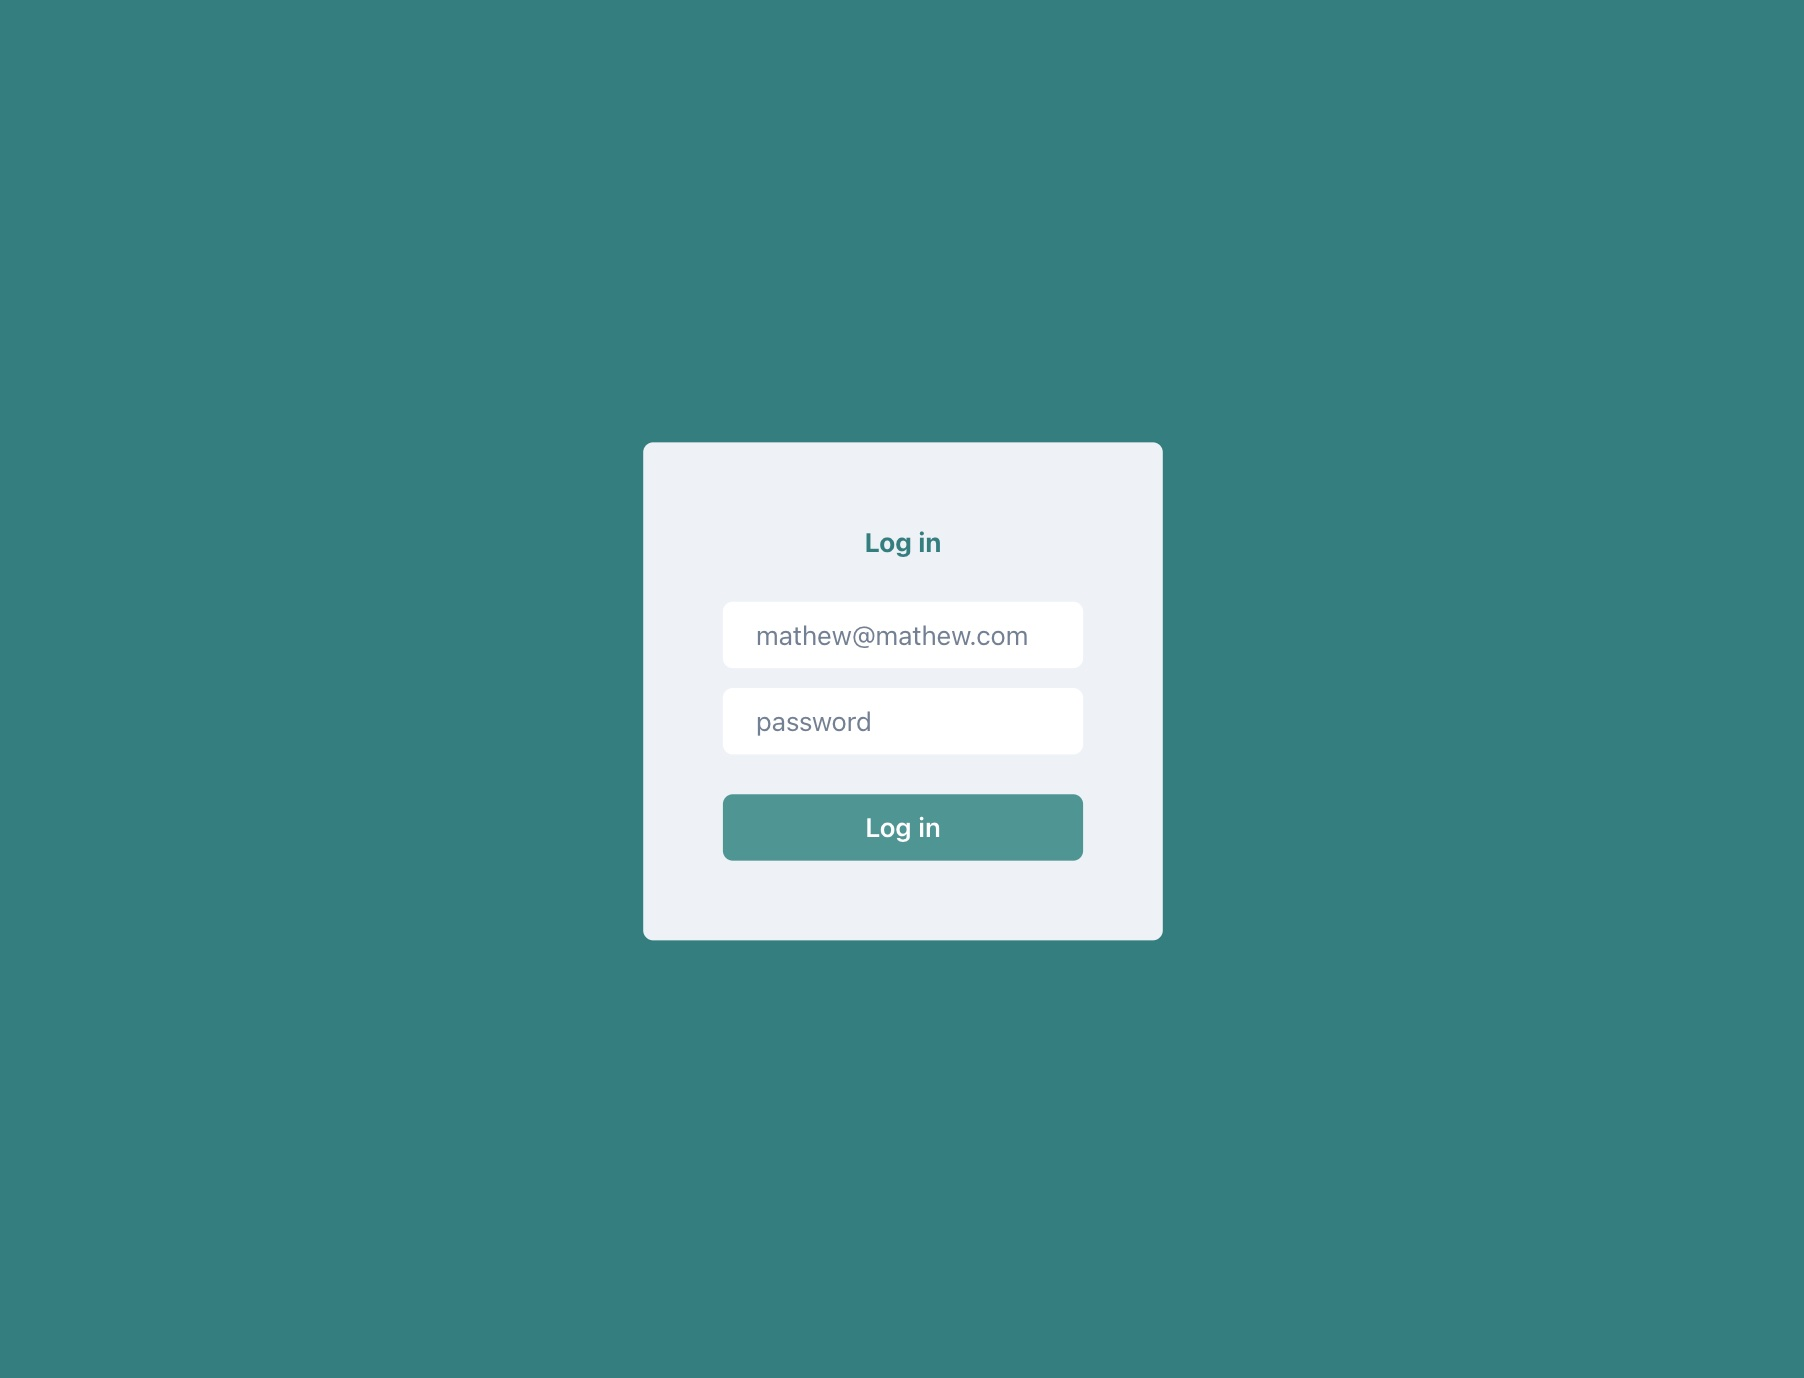
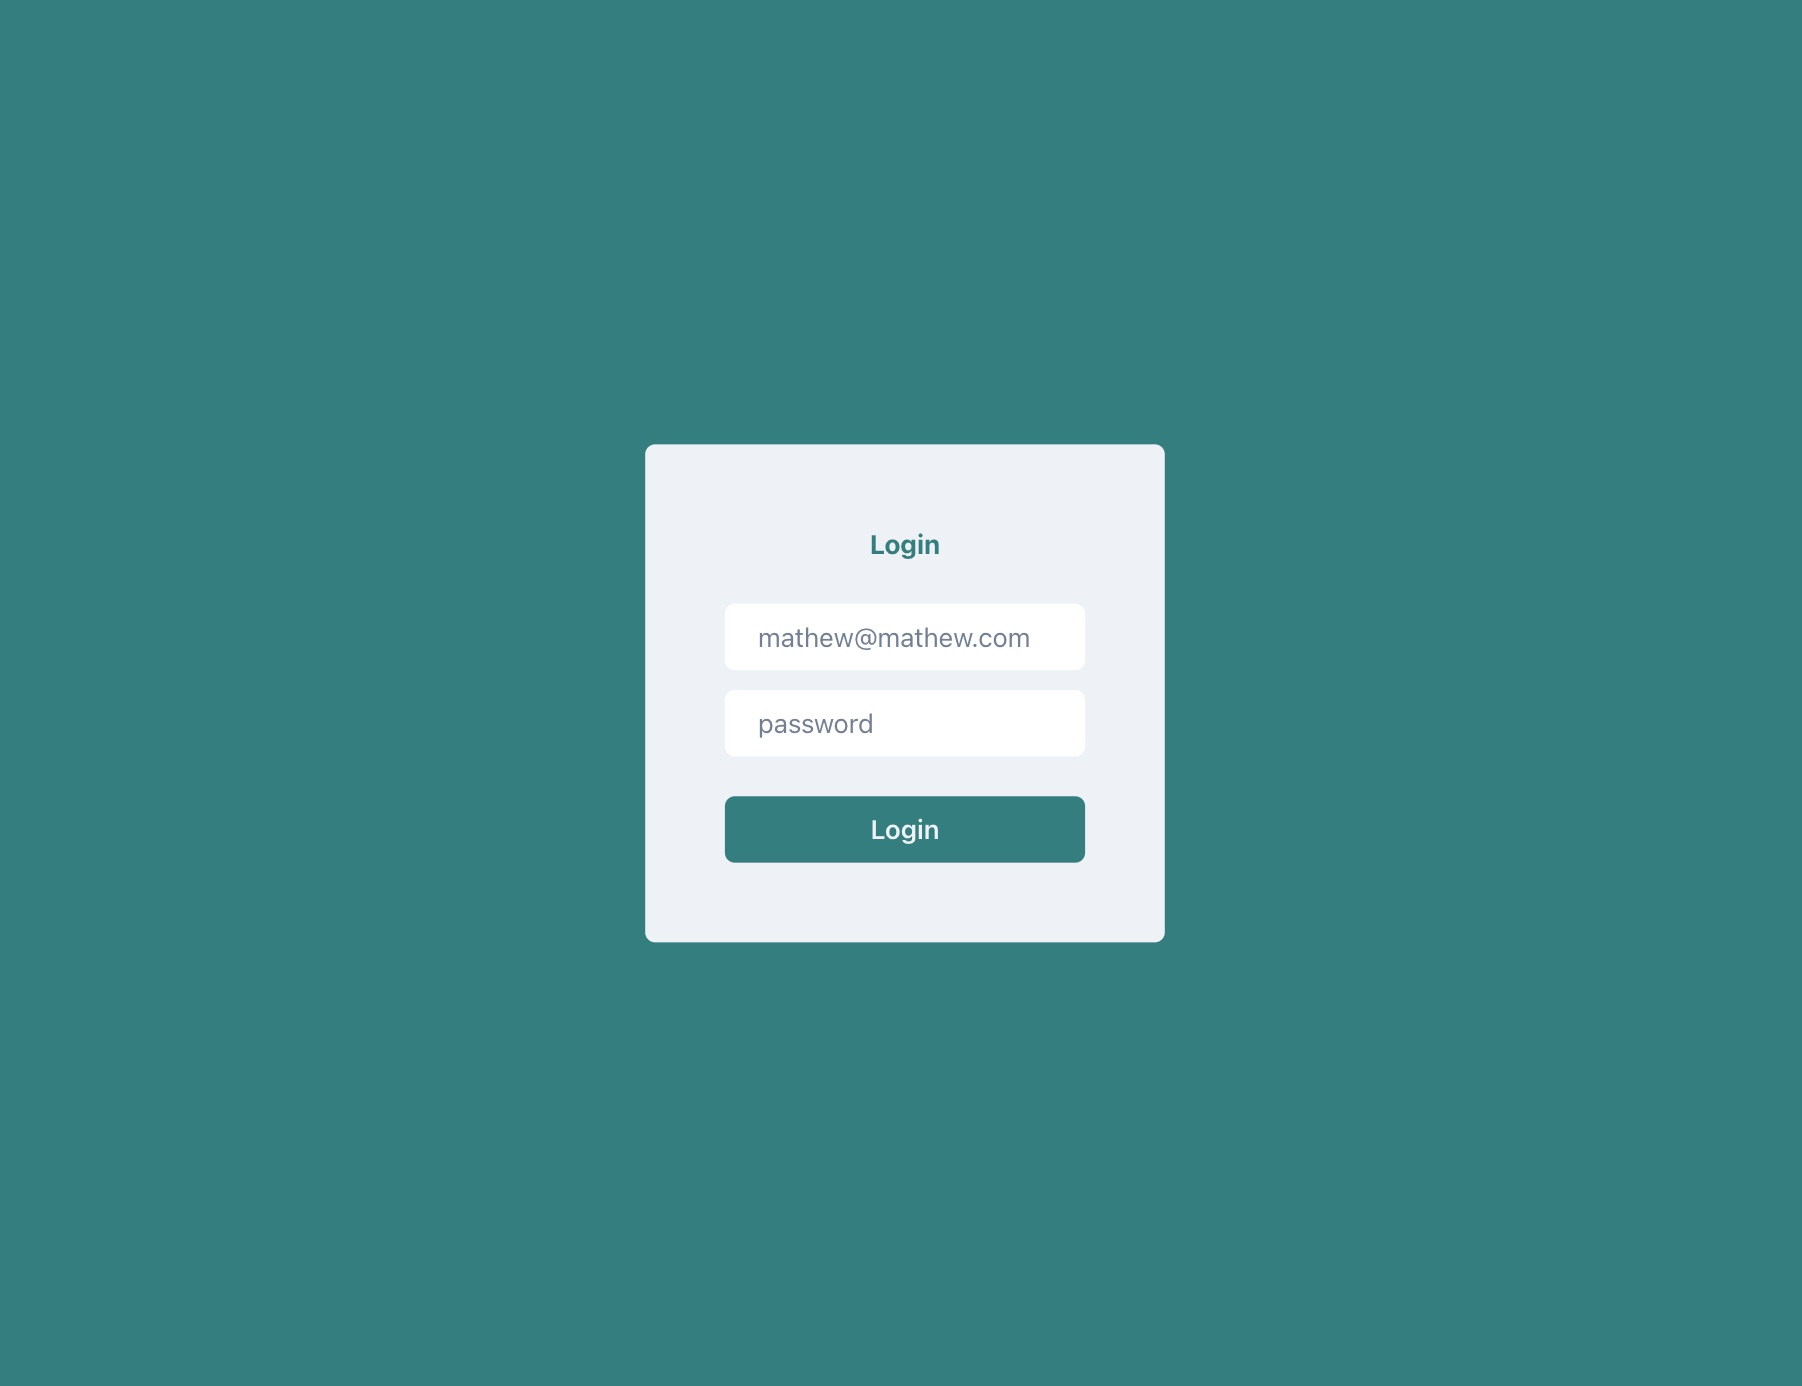
SimpleCart - cart details

diff --git a/src/components/forms/cart/SimpleCart/CartDetails.tsx b/src/components/forms/cart/SimpleCart/CartDetails.tsx
@@ -1,0 +1,74 @@
+import React from "react";
+import {
+  VStack,
+  Heading,
+  Text,
+  SimpleGrid,
+  GridItem,
+  FormControl,
+  FormLabel,
+  Input,
+  Select,
+  Checkbox,
+  Button,
+} from "@chakra-ui/react";
+
+type CartDetailsProps = {};
+
+const CartDetails: React.FC<CartDetailsProps> = () => {
+  return (
+    <VStack w="full" h="full" p={10} spacing={10} alignItems="flex-start">
+      <VStack spacing={3} alignItems="flex-start">
+        <Heading fontWeight={700}>Cart details</Heading>
+        <Text> If you already have an account, click here to log in</Text>
+      </VStack>
+      <SimpleGrid columns={2} columnGap={3} rowGap={6} w="full">
+        <GridItem colSpan={1}>
+          <FormControl>
+            <FormLabel>First Name</FormLabel>
+            <Input placeholder="John" />
+          </FormControl>
+        </GridItem>
+        <GridItem colSpan={1}>
+          <FormControl>
+            <FormLabel>Last Name</FormLabel>
+            <Input placeholder="Doe" />
+          </FormControl>
+        </GridItem>
+        <GridItem colSpan={2}>
+          <FormControl>
+            <FormLabel>Address</FormLabel>
+            <Input placeholder="99 Lost Way Blvd" />
+          </FormControl>
+        </GridItem>
+        <GridItem colSpan={1}>
+          <FormControl>
+            <FormLabel>City</FormLabel>
+            <Input placeholder="Doeville" />
+          </FormControl>
+        </GridItem>
+        <GridItem colSpan={1}>
+          <FormControl>
+            <FormLabel>Country</FormLabel>
+            <Select name="country">
+              <option value="ca"> Canada</option>
+              <option value="us"> United States of America</option>
+              <option value="mx">Mexico</option>
+              <option value="br">Brazil</option>
+              <option value="br">Kenya</option>
+              <option value="br">South Africa</option>
+              <option value="br">Finland</option>
+            </Select>
+          </FormControl>
+        </GridItem>
+        <GridItem colSpan={2}>
+          <Checkbox defaultChecked colorScheme="teal">Ship to billing address</Checkbox>
+        </GridItem>
+        <GridItem colSpan={2}>
+          <Button size="lg" w="full" colorScheme="teal">Place Order</Button>
+        </GridItem>
+      </SimpleGrid>
+    </VStack>
+  );
+};
+export default CartDetails;

diff --git a/src/components/forms/login/SimpleLogin.tsx b/src/components/forms/login/SimpleLogin.tsx
@@ -7,26 +7,26 @@ const SimpleLogin: React.FC<SimpleLoginProps> = () => {
   return (
     <Flex h="100vh" bg="teal" alignItems="center" justifyContent="center">
       <Flex direction="column" bg="gray.100" p={12} rounded={6}>
-        <Heading mb={6} textAlign="center" color="teal" fontWeight={700}>
-          Log in
+        <Heading mb={6} textAlign="center" color="brand.primary" fontWeight={700}>
+          Login
         </Heading>
         <Input
           placeholder="mathew@mathew.com"
-          variant="filled"
+          variant="outline"
           mb={3}
-          p="8px 20px"
+          p="4px 12px"
           type="email"
           rounded={6}
         />
         <Input
           placeholder="password"
-          variant="filled"
+          variant="outline"
           mb={6}
           p="8px 20px"
           rounded={6}
           type="password"
         />
-        <Button colorScheme="teal">Log in</Button>
+        <Button bg="teal" color="gray.100" colorScheme="teal">Login</Button>
       </Flex>
     </Flex>
   );

diff --git a/src/pages/_app.tsx b/src/pages/_app.tsx
@@ -1,4 +1,4 @@
-import { ChakraBaseProvider } from "@chakra-ui/react";
+import { ChakraBaseProvider, ChakraProvider } from "@chakra-ui/react";
 import type { AppProps } from "next/app";
 
 import theme from "@/styles/chakra/theme";
@@ -6,8 +6,10 @@ import "@/styles/globals.css";
 
 export default function App({ Component, pageProps }: AppProps) {
   return (
-    <ChakraBaseProvider theme={theme}>
+    // <ChakraBaseProvider theme={theme}>
+    <ChakraProvider>
       <Component {...pageProps} />
-    </ChakraBaseProvider>
+    </ChakraProvider>
+    // </ChakraBaseProvider>
   );
 }

diff --git a/src/pages/index.tsx b/src/pages/index.tsx
@@ -1,6 +1,7 @@
 import Head from "next/head";
 
-import SimpleLogin from "@/components/forms/login/SimpleLogin";
+// import SimpleLogin from "@/components/forms/login/SimpleLogin";
+import SimpleCart from "@/components/forms/cart/SimpleCart";
 
 export default function Home() {
   return (
@@ -12,7 +13,7 @@ export default function Home() {
         <link rel="icon" href="/favicon.ico" />
       </Head>
       <main>
-        <SimpleLogin/>
+        <SimpleCart/>
       </main>
     </>
   );

diff --git a/src/components/forms/cart/SimpleCart/index.tsx b/src/components/forms/cart/SimpleCart/index.tsx
@@ -1,0 +1,19 @@
+import React from "react";
+import { Container, Flex } from "@chakra-ui/react";
+
+import CartDetails from "./CartDetails";
+import CartSummary from "./CartSummary";
+
+type SimpleCartProps = {};
+
+const SimpleCart: React.FC<SimpleCartProps> = () => {
+  return (
+    <Container maxW="container.xl" m="0 auto">
+      <Flex h="100vh" py={20}>
+         <CartDetails/>
+         <CartSummary/>
+      </Flex>
+    </Container>
+  );
+};
+export default SimpleCart;

diff --git a/src/components/forms/cart/SimpleCart/CartSummary.tsx b/src/components/forms/cart/SimpleCart/CartSummary.tsx
@@ -1,0 +1,20 @@
+import React from "react";
+import { VStack } from "@chakra-ui/react";
+
+type CartSummaryProps = {};
+
+const CartSummary: React.FC<CartSummaryProps> = () => {
+  return (
+    <VStack
+      bg="gray.50"
+      w="full"
+      h="full"
+      p={10}
+      spacing={10}
+      alignItems="flex-start"
+    >
+      Cart details
+    </VStack>
+  );
+};
+export default CartSummary;

diff --git a/src/styles/chakra/theme.ts b/src/styles/chakra/theme.ts
@@ -1,12 +1,13 @@
 import { extendBaseTheme } from "@chakra-ui/react";
-import chakraTheme from "@chakra-ui/theme";
 
-const { Button } = chakraTheme.components;
+const colors = {
+  brand: {
+    primary: "teal",
+  },
+};
 
 const theme = extendBaseTheme({
-  components: {
-    Button,
-  },
+  colors,
 });
 
 export default theme;

diff --git a/README.md b/README.md
@@ -4,6 +4,5 @@ Some React Components pre-built with TypeScript and Chakra.
 
 ### Forms 
 
-##### Simple login page
-
+##### SimpleLogin
 ![Simple login page](./docs/SimpleLogin.jpg)
